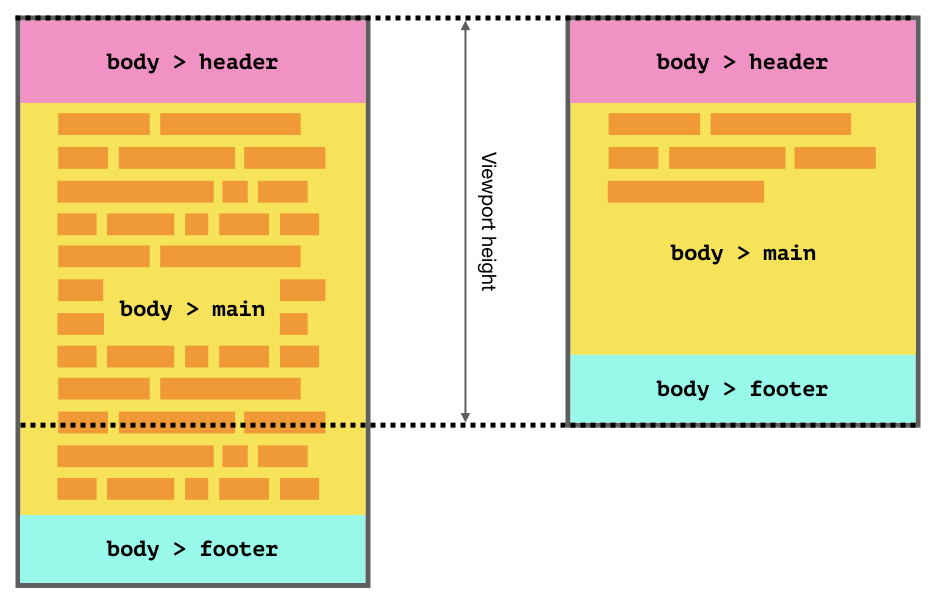
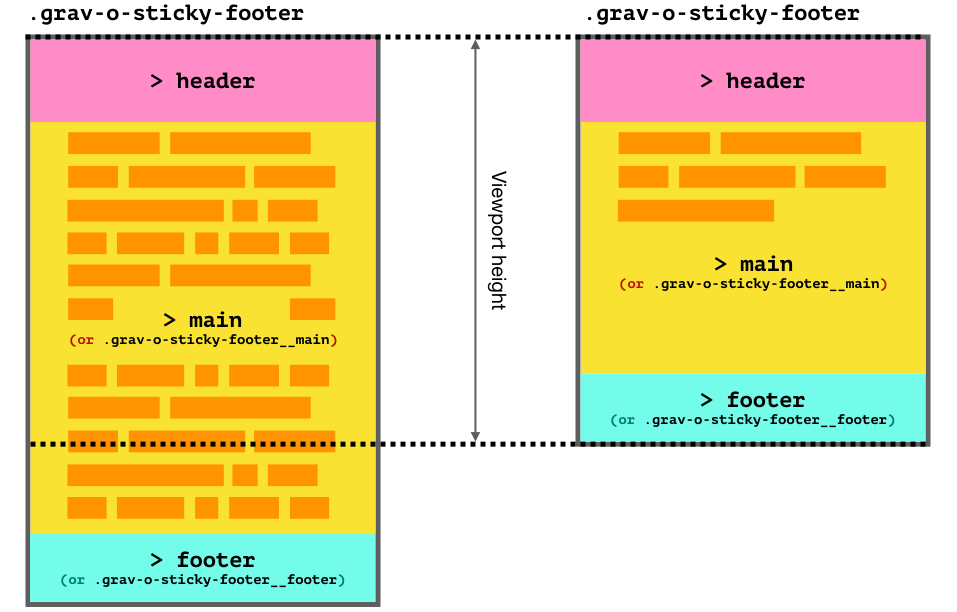
feat(layout): stick page footer is now opt-in
affects: @buildit/gravity-ui-nunjucks, @buildit/gravity-ui-web

Previously, direct descendents of the \`<body>\` element were laid out such that the page footer would
be flush with the bottom of the viewport on short pages where it would otherwise appear further up.
This was achieved by applying \`display: flex;\` on the \`<body>\` element. In some scenarios, this
caused unwelcome side-effects (see issue #133). This change therefore removes this default layout
behaviour and introduces an object class (\`.grav-o-sticky-footer\`) that consumers can apply to the
\`<body>\` element to exlicitly opt into the sticky footer layout.

BREAKING CHANGE:
Pages relying on the old default sticky footer will now need to add the \`.grav-o-sticky-footer\`
class to \`<body>\` in order to continue getting that layout.

ISSUES CLOSED: #133

diff --git a/packages/gravity-ui-web/src/sass/04-objects/_sticky-footer.scss b/packages/gravity-ui-web/src/sass/04-objects/_sticky-footer.scss
@@ -1,0 +1,15 @@
+.grav-o-sticky-footer {
+  display: flex;
+  flex-direction: column;
+  min-height: 100vh;
+
+  > main,
+  &__main {
+    flex-grow: 1;
+  }
+
+  > footer,
+  &__footer {
+    flex-shrink: 0;
+  }
+}

diff --git a/packages/gravity-ui-web/src/sass/03-elements/_elements.all.scss b/packages/gravity-ui-web/src/sass/03-elements/_elements.all.scss
@@ -9,5 +9,4 @@
 @import 'buttons';
 @import 'forms';
 @import 'input';
-@import 'main';
 @import 'lists';

diff --git a/packages/gravity-ui-web/src/sass/04-objects/_objects.all.scss b/packages/gravity-ui-web/src/sass/04-objects/_objects.all.scss
@@ -4,3 +4,4 @@
 @import 'section';
 @import 'container';
 @import 'layouts';
+@import 'sticky-footer';

diff --git a/packages/gravity-ui-web/src/sass/02-generic/_generic.all.scss b/packages/gravity-ui-web/src/sass/02-generic/_generic.all.scss
@@ -5,4 +5,3 @@
 @import 'colors';
 @import 'typography';
 @import 'heydon';
-@import 'layout';

diff --git a/packages/gravity-ui-web/docs/layout-and-grid.md b/packages/gravity-ui-web/docs/layout-and-grid.md
@@ -45,11 +45,13 @@ However, occasionally there is a need for "full-bleed" elements that span the en
 Note that **nesting elements with `grav-o-page-content` is not supported** as it will create oversized margins on small viewports.
 
 
-### Sticky footer by default
+### Sticky footer
 Gravity expects that your page or application declares `<header>`, `<main>` and `<footer>` elements as _direct_ children of the `<body>` for the page or app's main header, content and footer respectively.
 
-To avoid an unattractive empty gap _below_ the page footer, we have some CSS rules that will push the footer down to sit flush the bottom edge of the viewport on short pages. This is done by expanding the height of `<main>` as needed. On pages where the content exceeds the height of the viewport, the page scrolls as usual.
+To avoid an unattractive empty gap _below_ the page footer, you can apply the `.grav-o-sticky-footer` class to the `<body>` element. This will push the footer down to sit flush the bottom edge of the viewport on short pages. This is done by making the `<body>` element (or whatever element the class was applied to) a flexbox column with a minimum height of `100vh` and then setting the `<main>` child element to grow vertically, filling any excess sapce and pushing the footer downwards. On pages where the content exceeds the height of the viewport, the page scrolls as usual.
 
 ![Diagram to illustrate the sticky footer positioning on tall and short pages](./layout-sticky-footer.png)
+
+If, for some reason, your footer needs to be wrapped in another element, you can alternatively use the `.grav-o-sticky-footer__footer` class on the whatever element needs to be pushed down to the bottom of the viewport. Likewise, if `<main>` is not a direct child of the sticky footer container, you can apply the `.grav-o-sticky-footer__main` class to the equivalent element.
 
 These elements also have the default vertical gap removed, so that they sit flush against each other.
